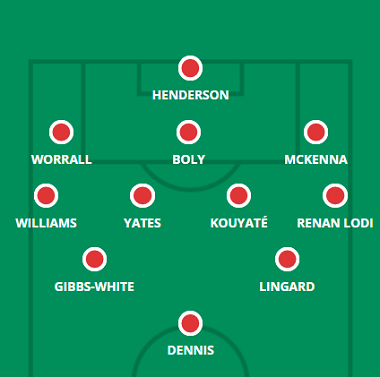
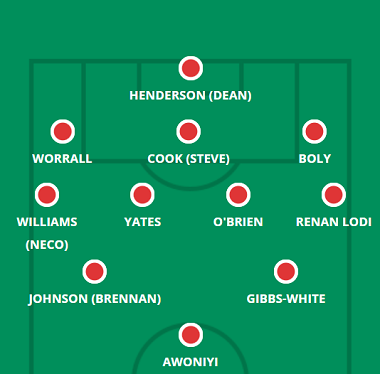
city, liverpool, nforest, palace, south e united

diff --git a/liverpool.html b/liverpool.html
@@ -68,7 +68,7 @@
             <hgroup>
                 <h1> Provável Escalação</h1>
                 <h2 class="direita"> por FabioVascão </h2>
-                <h3 class="direita"> Atualizado em 29/Setembro/2022 </h3>
+                <h3 class="direita"> Atualizado em 30/Setembro/2022 </h3>
             </hgroup>
     
             <h2 class="time"> <img src="_fotos/_logos/logoliverpool.png" />Liverpool</h2>
@@ -77,9 +77,9 @@
                     <img src="_fotos/_dinamicas/liverpool.png" />
                 </figure>
             </aside>
-                <div class="escalacao"><h2 class="titulo">Ultimas Notícias</h2> <h4><p>Mais informações em breve.</p></h4><br>
-                    <h4><strong>Jogadores fora da próxima partida:</strong> Thiago Alcántara, Davies, Henderson, Keita, Konaté, Oxlade-Chamberlain, Ramsay</h4><br><br>
-                    <h4><strong>Jogadores dúvidas:</strong> Kelleher, Arthur e Diogo Jota</h4>
+                <div class="escalacao"><h2 class="titulo">Ultimas Notícias</h2> <h4><p>Andrew Robertson (lesão no joelho), Curtis Jones (lesão na perna), Naby Keita (lesão múscular) e Alex Oxlade-Chamberlain (lesão na coxa) estão todos fora do jogo de Brighton, e enquanto Ibrahima Konate, Calvin Ramsay e Caoimhin Kelleher estão agora livres de lesões, a preparação para o jogo continua a ser um problema; apenas Konate desse trio tem chance de ficar no banco neste fim de semana. Diogo Jota e Darwin Nunez foram dispensados na quinta-feira após seus compromissos internacionais, enquanto Jurgen Klopp nem viu Luis Diaz até sexta-feira, após sua partida de quarta-feira pela Colômbia, então há uma chance de que os três primeiros do Liverpool neste fim de semana levem em conta minutos jogado durante o intervalo internacional, principalmente com a agenda lotada pela frente. A chegada tardia de Diaz e as duas partidas de Nunez na última semana são fatores possíveis, principalmente porque Roberto Firmino não chutou uma bola para o Brasil e Mohamed Salah foi autorizado a sair cedo do campo do Egito. O influente Thiago Alcântara teve quinze dias de folga e Fabinho foi pouco usado pelo Brasil, então provavelmente será uma luta direta entre Jordan Henderson e Harvey Elliott pela terceira vaga no meio-campo central em Anfield. Os quatro zagueiros podem muito bem escolher a si mesmos, principalmente porque Joel Matip se destacou no último jogo oficial do Liverpool contra o Ajax, há duas semanas.</p></h4><br>
+                    <h4><strong>Jogadores fora da próxima partida:</strong> Davies, Jones (Curtis), Keita, Oxlade-Chamberlain, Ramsay e Robertson</h4><br><br>
+                    <h4><strong>Jogadores dúvidas:</strong> Kelleher e Konaté </h4>
                 </div> 
         </header>
         </article>

diff --git a/nforest.html b/nforest.html
@@ -68,7 +68,7 @@
             <hgroup>
                 <h1> Provável Escalação</h1>
                 <h2 class="direita"> por FabioVascão </h2>
-                <h3 class="direita"> Atualizado em 29/Setembro/2022 </h3>
+                <h3 class="direita"> Atualizado em 30/Setembro/2022 </h3>
             </hgroup>
     
             <h2 class="time"> <img src="_fotos/_logos/logonforest.png" />Nottingham Forest</h2>
@@ -77,9 +77,9 @@
                     <img src="_fotos/_dinamicas/nforest.png" />
                 </figure>
             </aside>
-                <div class="escalacao"><h2 class="titulo">Ultimas Notícias</h2> <h4><p>Mais informações em breve.</p></h4><br>
-                    <h4><strong>Jogadores fora da próxima partida:</strong> Niakhaté, Richards e Samba</h4><br><br>
-                    <h4><strong>Jogadores dúvidas:</strong> Aurier e Mangala</h4>
+                <div class="escalacao"><h2 class="titulo">Ultimas Notícias</h2> <h4><p>Scott McKenna é uma "dúvida" para o jogo do Leicester na segunda-feira à noite, enquanto Omar Richards (lesão na perna) permanece de fora e o jogo deve ocorrer muito cedo para Moussa Niakhate (lesão múscular) e Orel Mangala (lesão múscular). Steve Cooper foi mais positivo sobre as chances de Morgan Gibbs-White se recuperar de uma lesão contraída com os sub-21 da Inglaterra, embora nem mesmo ele tenha certeza de se recuperar, apesar de uma "integração" no treinamento. As possíveis ausências de Niakhate e McKenna deixariam Cooper sem opções de meio-campo do lado esquerdo, embora Willy Boly e Loic Bade tenham experiência de jogar em seus lados 'errados'. Lewis O'Brien está se esforçando muito por um recall após seu gol na 8° Rodada, enquanto a vulnerabilidade do Leicester a lances de bola parada pode persuadir Cooper a manter pelo menos uma presença imponente no meio-campo (Cheikhou Kouyate ou Ryan Yates) para capitalizar isso. Brennan Johnson é um titular sempre presente nesta temporada e o gol de Taiwo Awoniyi contra o Fulham pode ser um bom presságio para suas chances de manter a titularidade, então as perspectivas de Jesse Lingard de recuperar uma vaga de titular podem depender da forma física de Gibbs-White. Emmanuel Dennis é outra opção no topo depois de aparentemente se recuperar da lesão que o forçou a sair da seleção da Nigéria, mas Cooper ainda não confia nele para começar na Premier League desde sua mudança.</p></h4><br>
+                    <h4><strong>Jogadores fora da próxima partida:</strong> Richards e Samba</h4><br><br>
+                    <h4><strong>Jogadores dúvidas:</strong> Gibbs-White, Mangala, McKenna e Niakhaté </h4>
                 </div> 
         </header>
         </article>

diff --git a/city.html b/city.html
@@ -68,7 +68,7 @@
             <hgroup>
                 <h1> Provável Escalação</h1>
                 <h2 class="direita"> por FabioVascão </h2>
-                <h3 class="direita"> Atualizado em 29/Setembro/2022 </h3>
+                <h3 class="direita"> Atualizado em 30/Setembro/2022 </h3>
             </hgroup>
     
             <h2 class="time"> <img src="_fotos/_logos/logocity.png" />Manchester City</h2>
@@ -77,9 +77,9 @@
                     <img src="_fotos/_dinamicas/city.png" />
                 </figure>
             </aside>
-                <div class="escalacao"><h2 class="titulo">Ultimas Notícias</h2> <h4><p>Mais informações em breve.</p></h4><br>
-                    <h4><strong>Jogadores fora da próxima partida:</strong> Laporte</h4><br><br>
-                    <h4><strong>Jogadores dúvidas:</strong> Walker</h4>
+                <div class="escalacao"><h2 class="titulo">Ultimas Notícias</h2> <h4><p>John Stones (lesão na coxa) ficará ausente nos próximos 10 a 14 dias depois de se lesionar enquanto jogava pela seleção inglesa, enquanto Pep Guardiola deu a entender que Aymeric Laporte (lesão no joelho) não estaria nem perto do time titular, apesar do regresso do espanhol aos treinos após uma longa tempo. Portanto, a única alternativa para os quatro zagueiros que você vê aqui é Nathan Ake, mas com Manuel Akanji apresentando algumas exibições impressionantes após sua chegada e o ritmo de Kyle Walker provavelmente necessário para impedir as rápidas separações do Manchester United, o dinheiro inteligente estaria no quarteto em esta formação prevista. Kevin De Bruyne, Rodri, Bernardo Silva e Erling Haaland parecem titulares quase certos (se o condicionamento físico permitir), dada a magnitude do jogo, enquanto Phil Foden ainda não foi colocado no banco na liga nesta temporada e começou todos os 'big six' jogo (sete deles no total) para o qual estava disponível em 2022/23. Onde Bernardo está implantado provavelmente dita quem ocupa o sexto e último lugar no meio-campo / ataque, com o planejador português usado de várias maneiras no flanco direito ou no meio-campo central nesta temporada. A rota de Ilkay Gundogan para o onze inicial depende de Bernardo ser usado mais à frente, enquanto um desempenho louvável de Jack Grealish na 8° Rodada pode dar a ele vantagem sobre Riyad Mahrez se Bernardo for colocado em um papel mais profundo.</p></h4><br>
+                    <h4><strong>Jogadores fora da próxima partida:</strong> Phillips e Stones</h4><br><br>
+                    <h4><strong>Jogadores dúvidas:</strong> Laporte</h4>
                 </div> 
         </header>
         </article>

diff --git a/palace.html b/palace.html
@@ -68,7 +68,7 @@
             <hgroup>
                 <h1> Provável Escalação</h1>
                 <h2 class="direita"> por FabioVascão </h2>
-                <h3 class="direita"> Atualizado em 29/Setembro/2022 </h3>
+                <h3 class="direita"> Atualizado em 30/Setembro/2022 </h3>
             </hgroup>
     
             <h2 class="time"> <img src="_fotos/_logos/logopalace.png" />Crystal Palace</h2>
@@ -77,10 +77,9 @@
                     <img src="_fotos/_dinamicas/palace.png" />
                 </figure>
             </aside>
-                <div class="escalacao"><h2 class="titulo">Ultimas Notícias</h2> <h4><p>Mais informações em breve.</p></h4><br>
-                    <h4><strong>Jogadores fora da próxima partida:</strong> Ferguson, McArthur e Tomkins
-                    </h4><br><br>
-                    <h4><strong>Jogadores dúvidas:</strong> Butland</h4>
+                <div class="escalacao"><h2 class="titulo">Ultimas Notícias</h2> <h4><p>Nathan Ferguson (lesão no pé), James McArthur (lesão na virilha) e Jack Butland (lesão na mão) permanecem de fora neste fim de semana, mas James Tomkins (lesão na panturrilha) está de volta à equipe, enquanto Patrick Vieira disse que seus retornos internacionais saíram ilesos - o que presumivelmente significa que a lesão que forçou Chris Richards a sair da seleção dos EUA não é sério. Com Wilfried Zaha como titular, o meio-campo três de Cheick Doucoure, Jeffrey Schlupp e Eberechi Eze sempre presentes em 2022/23 e o enxerto de Jordan Ayew normalmente usado em partidas dessa magnitude, Patrick Vieira terá novamente a escolha pouco inspiradora de Odsonne Edouard ou Jean-Philippe Mateta para liderar o seu habitual 4-3-3. O técnico do Palace poderia, no entanto, jogar de outra maneira e imitar as táticas de 5-4-1/3-4-3 que funcionaram muito bem contra Liverpool e Manchester City no início da temporada, com Zaha liderando a linha e Nathaniel Clyne trazido como quinto defensor. Michael Olise é outra opção mais ofensiva no flanco direito, se necessário, enquanto Will Hughes e Luka Milivojevic são alternativas na sala de máquinas se, por exemplo, Schlupp foi movido mais para a frente.</p></h4><br>
+                    <h4><strong>Jogadores fora da próxima partida:</strong> Butland, Ferguson e McArthur</h4><br><br>
+                    <h4><strong>Jogadores dúvidas:</strong> </h4>
                 </div> 
         </header>
         </article>

diff --git a/united.html b/united.html
@@ -68,7 +68,7 @@
             <hgroup>
                 <h1> Provável Escalação</h1>
                 <h2 class="direita"> por FabioVascão </h2>
-                <h3 class="direita"> Atualizado em 29/Setembro/2022 </h3>
+                <h3 class="direita"> Atualizado em 30/Setembro/2022 </h3>
             </hgroup>
     
             <h2 class="time"> <img src="_fotos/_logos/logounited.png" />Manchester United</h2>
@@ -77,9 +77,9 @@
                     <img src="_fotos/_dinamicas/united.png" />
                 </figure>
             </aside>
-                <div class="escalacao"><h2 class="titulo">Ultimas Notícias</h2> <h4><p>Mais informações em breve.</p></h4><br>
-                    <h4><strong>Jogadores fora da próxima partida:</strong> Martial e Pellistri</h4><br><br>
-                    <h4><strong>Jogadores dúvidas:</strong> Shaw e Wan Bissaka</h4>
+                <div class="escalacao"><h2 class="titulo">Ultimas Notícias</h2> <h4><p>Harry Maguire (lesão múscular) está fora do derby de Manchester, mas sexta-feira trouxe notícias positivas e inesperadas de que Anthony Martial (lesão no tendão de aquiles) e Marcus Rashford (lesão múscular) voltaram a treinar, com a dupla a ser avaliada antes do confronto de domingo no Etihad. Erik ten Hag manteve uma equipe muito estável nos últimos quatro jogos vitoriosos da liga, com 10 jogadores (incluindo Rashford) sempre presentes e Antony agora reivindicando a outra vaga após sua grande transferência do Ajax. Quem substitui Rashford se ele não estiver pronto para começar é talvez a única pergunta para Ten Hag antes da partida de domingo, com as pernas de Cristiano Ronaldo de 37 anos certamente não se encaixam bem para uma partida em que o United terá para suportar muito tempo da bola. Trazer Casemiro e empurrar Christian Eriksen ou Bruno Fernandes para uma posição de 'falso nove' pode ser o cenário mais provável, então.</p></h4><br>
+                    <h4><strong>Jogadores fora da próxima partida:</strong> Maguire e Williams (Brandon)</h4><br><br>
+                    <h4><strong>Jogadores dúvidas:</strong> Dubravka, Martial e Rashford</h4>
                 </div> 
         </header>
         </article>

diff --git a/south.html b/south.html
@@ -68,7 +68,7 @@
             <hgroup>
                 <h1> Provável Escalação</h1>
                 <h2 class="direita"> por FabioVascão </h2>
-                <h3 class="direita"> Atualizado em 29/Setembro/2022 </h3>
+                <h3 class="direita"> Atualizado em 30/Setembro/2022 </h3>
             </hgroup>
     
             <h2 class="time"> <img src="_fotos/_logos/logosouth.png" />Southampton</h2>
@@ -77,7 +77,7 @@
                     <img src="_fotos/_dinamicas/south.png" />
                 </figure>
             </aside>
-                <div class="escalacao"><h2 class="titulo">Ultimas Notícias</h2> <h4><p>Mais informações em breve.</p></h4><br>
+                <div class="escalacao"><h2 class="titulo">Ultimas Notícias</h2> <h4><p>Não há nada de novo na frente de notícias da equipe de Southampton, com Tino Livramento (lesão no joelho) fora até 2023 e Romeo Lavia (lesão múscular) ainda a algumas semanas de um retorno. Os jogadores dos Saints são titulares sempre presentes nos últimos três jogos, com o lugar vago de Lavia - ocupado indiretamente por Joe Aribo e depois Moussa Djenepo - respondendo pelas outras aparições. Não há muita coisa errada com a defesa no momento, com os dois zagueiros em particular tendo um bom desempenho, mas a ausência de Lavia deixou um vazio que ainda não foi preenchido no meio-campo, com Ibrahima Diallo falhando duas vezes em sua equipe lesionada. Ainsley Maitland-Niles, que Hasenhuttl disse há duas semanas "tem que se adaptar ao nosso jogo" depois de tê-lo omitido da equipe, recebeu um testemunho mais positivo no presser pré-jogo de sexta-feira , então pode ser entregue tardiamente uma estreia completa neste fim de semana. Aribo, Stuart Armstrong, Sekou Mara e Sam Edozie estão todos pressionando pela inclusão, embora no caso de Armstrong e Edozie, eles tenham jogado três vezes por seus países durante o intervalo internacional.</p></h4><br>
                     <h4><strong>Jogadores fora da próxima partida:</strong> Lavia, Livramento e Romeu</h4><br><br>
                     <h4><strong>Jogadores dúvidas:</strong> </h4>
                 </div> 
